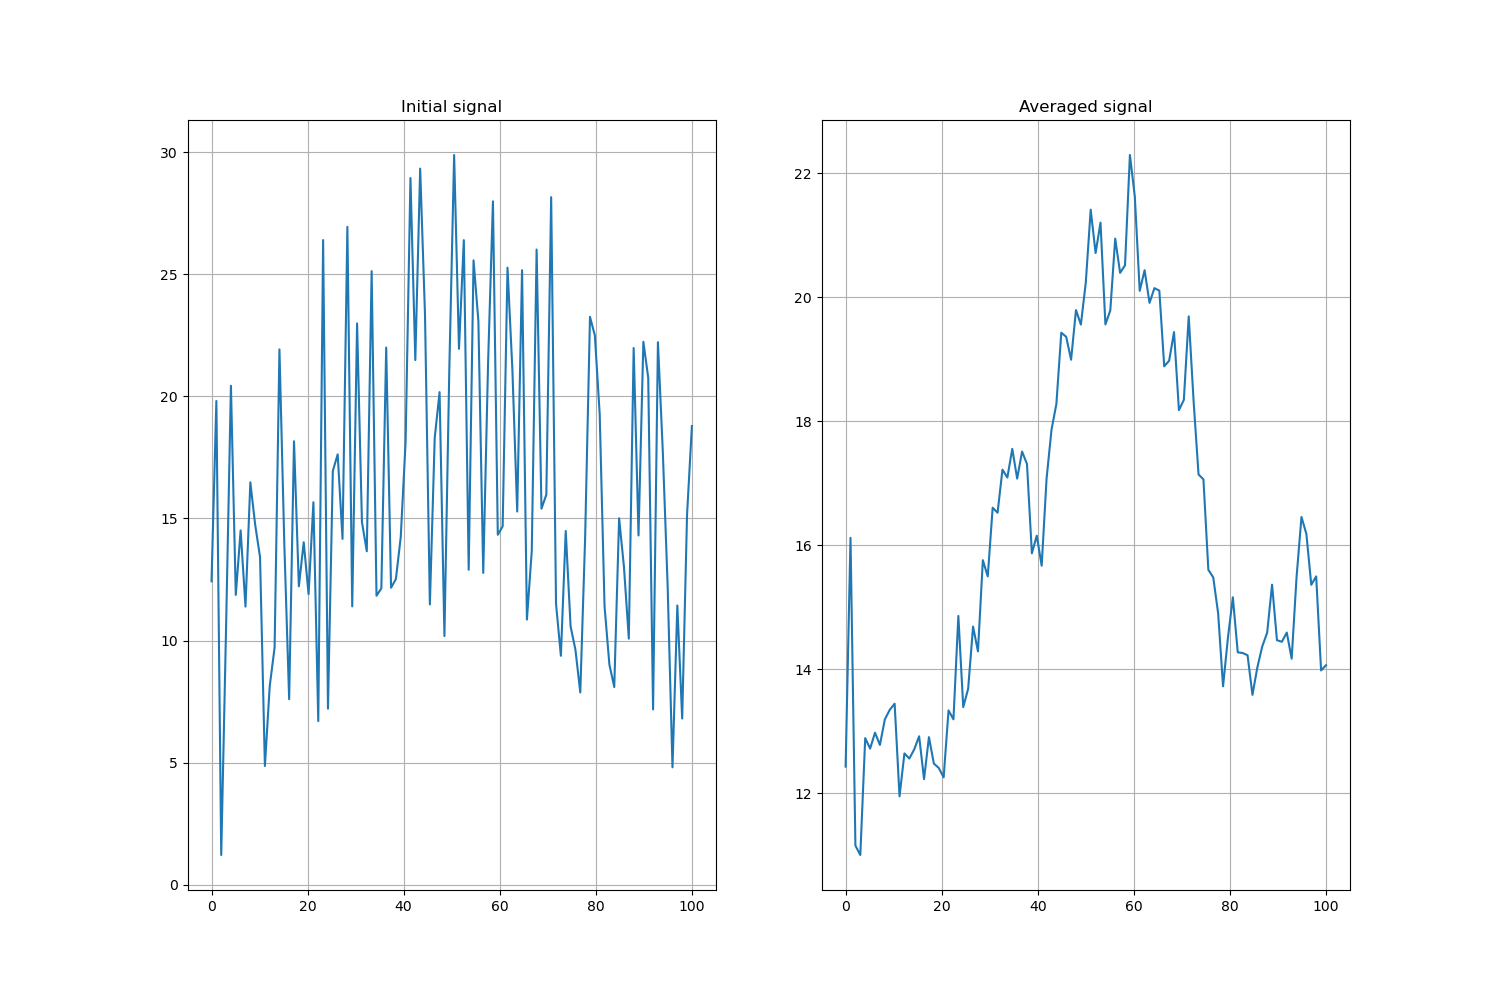
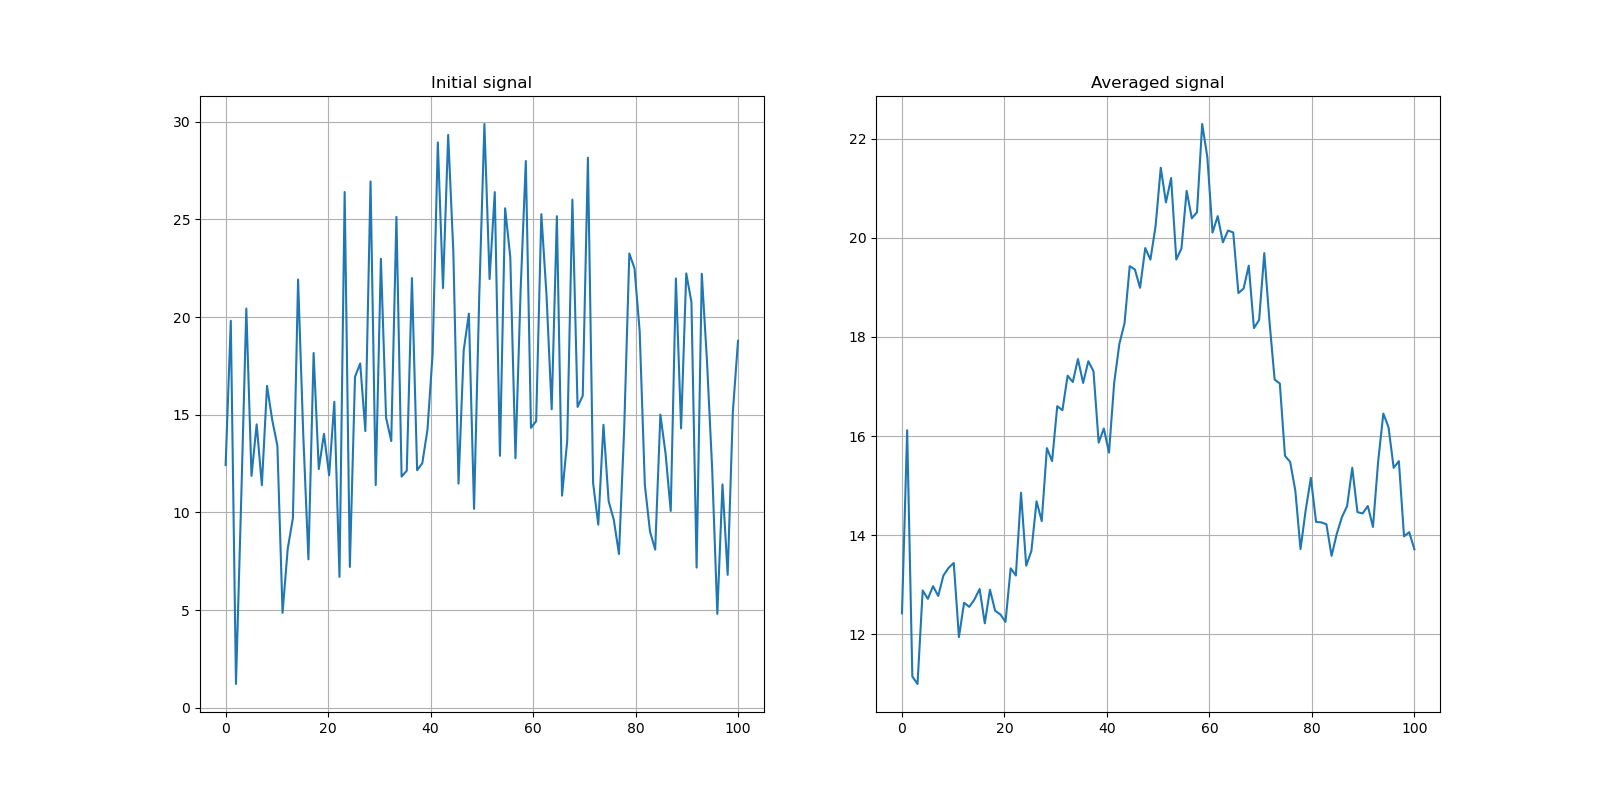
Program speed

diff --git a/Lab_3_NumPy/Episode2/Task.py b/Lab_3_NumPy/Episode2/Task.py
@@ -1,9 +1,12 @@
 import numpy as np
 import matplotlib.pyplot as plt
-fig, ax = plt.subplots(nrows=1, ncols=2, figsize=(15,10))
+
+fig, ax = plt.subplots(nrows=1, ncols=2, figsize=(16, 8))
+
 for i in range(3):
     data = np.loadtxt(f'signal0{i + 1}.dat')
-    new_data = np.array([data[max(0, j - 10):j].mean() for j in range(1, data.size)])
+    new_data = np.concatenate((np.array([data[0:j].mean() for j in range(1, 11)]),
+                               np.convolve(data, np.ones(10) / 10, mode='full')[10:-9]), axis=0)
     ax[0].plot(np.linspace(0, 100, data.size), data)
     ax[0].set_title('Initial signal')
     ax[0].grid()
@@ -13,3 +16,15 @@ for i in range(3):
     plt.savefig(f'averaged_signal0{i + 1}.png')
     ax[0].clear()
     ax[1].clear()
+
+# Посчитал среднее врямя работы за 30 считываний данных из файлов:
+#  Все в list comprehension:
+# 100 элементов:
+# 0.000495298703511556
+# 400 элементов:
+# 0.0025328318277994793
+# Только 10 элементов в list comprehension, остальое считаю через np.convolve:
+# 100 элементов:
+# 0.0002837260564168294
+# 400 элементов:
+# 0.00031061967213948566
